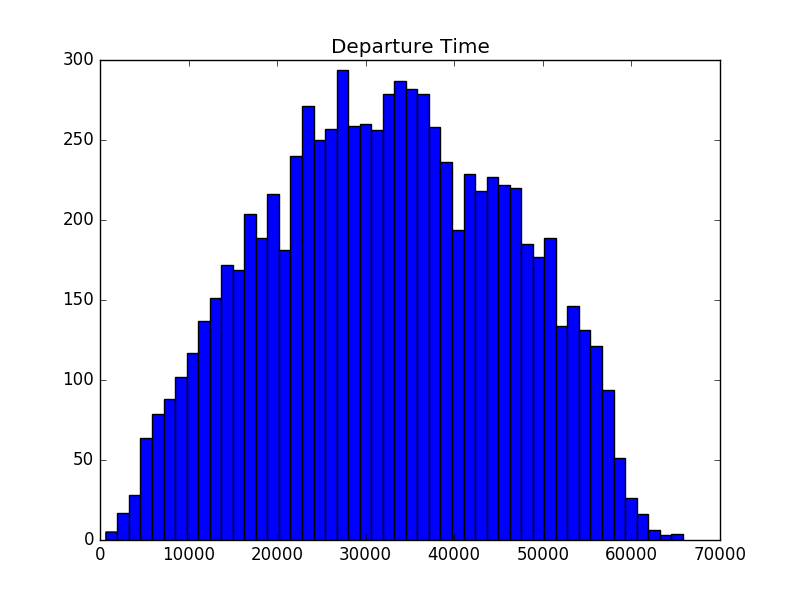
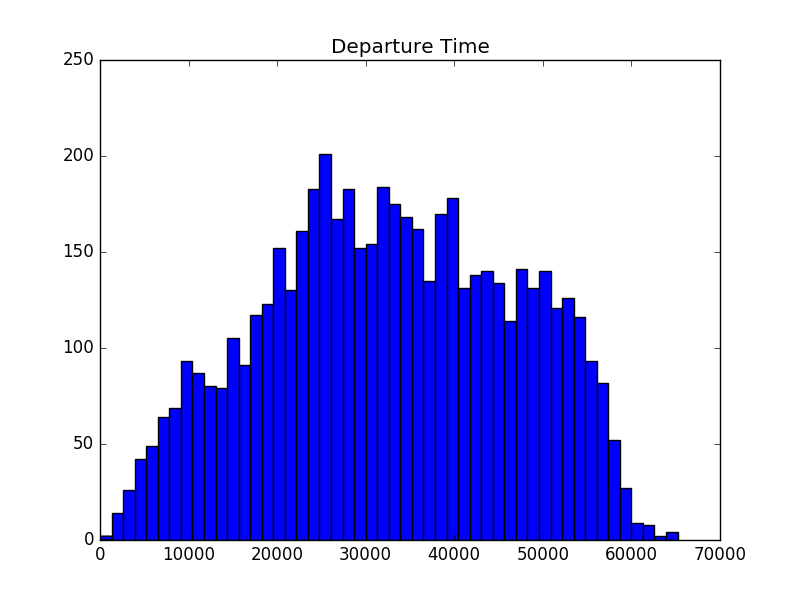
everything working

diff --git a/MMnnPSQ.py b/MMnnPSQ.py
@@ -114,6 +114,7 @@ class SimulationModel():
         day_of_week = 'Tue'
         dt = pd.read_csv("overallshift.csv")
         schedule = dt.query('start <= %s < end' % t0)[day_of_week].values[0]
+        shift_changes = deque([3600, 7200, 18000, 21600, 25200, 32400, 36000, 39600, 50400, 54000, 57600])
         shift = []
         #Create the roster schedules
         working_roster = Shift()
@@ -148,7 +149,7 @@ class SimulationModel():
         tmo_offline = 0
         while t < max_sim_time:
             
-            if t < 32400 and self.shift_change(t) == True:
+            if t < 32400 and self.shift_change(t, shift_changes) is True:
                 tmo_first_shift = working_roster.TMO.query('start <= %s < end' % t)[day_of_week].values[0]
                 macomp_first_shift = working_roster.MACOMP.query('start <= %s < end' % t)[day_of_week].values[0]
                 maenq_first_shift = working_roster.MAENQ.query('start <= %s < end' % t)[day_of_week].values[0]
@@ -180,7 +181,7 @@ class SimulationModel():
                     s_id += 1
                     shift.append(Servers(self.service_rate, s_id, concurency_limit, worker_type = 'tvsport'))
 
-            elif t >= 32400 and self.shift_change(t) == True:
+            elif t >= 32400 and self.shift_change(t, shift_changes) is True:
                 tmo_delta = working_roster.TMO.query('start <= %s < end' % t)[day_of_week].values[0]
                 macomp_delta = working_roster.MACOMP.query('start <= %s < end' % t)[day_of_week].values[0]
                 maenq_delta = working_roster.MAENQ.query('start <= %s < end' % t)[day_of_week].values[0]
@@ -190,51 +191,48 @@ class SimulationModel():
 
                 tmo = [i for i in shift if i.worker_type == 'tmo' if i.active is True]
                 count = 0
-                while count < tmo_delta:
-                    i.active = False
+                while count < math.fabs(tmo_delta):
+                    tmo[count].active = False
                     count += 1
 
-                macomp = [i for i in shift if i.worker_type == 'tmo' if i.active is True]
+                macomp = [i for i in shift if i.worker_type == 'macomp' if i.active is True]
                 count = 0
-                while count < macomp_delta:
-                    i.active = False
+                while count < math.fabs(macomp_delta):
+                    macomp[count].active = False
                     count += 1
 
-                maenq = [i for i in shift if i.worker_type == 'tmo' if i.active is True]
+                maenq = [i for i in shift if i.worker_type == 'maenq' if i.active is True]
                 count = 0
-                while count < maenq_delta:
-                    i.active = False
+                while count < math.fabs(maenq_delta):
+                    maenq[count].active = False
                     count += 1
 
-                mobile = [i for i in shift if i.worker_type == 'tmo' if i.active is True]
+                mobile = [i for i in shift if i.worker_type == 'mob' if i.active is True]
                 count = 0
-                while count < mobile_delta:
-                    i.active = False
+                while count < math.fabs(mobile_delta):
+                    mobile[count].active = False
                     count += 1
 
-                repair = [i for i in shift if i.worker_type == 'tmo' if i.active is True]
+                repair = [i for i in shift if i.worker_type == 'rep' if i.active is True]
                 count = 0
-                while count < repair_delta:
-                    i.active = False
+                while count < math.fabs(repair_delta):
+                    repair[count].active = False
                     count += 1
 
-                tvsport = [i for i in shift if i.worker_type == 'tmo' if i.active is True]
+                tvsport = [i for i in shift if i.worker_type == 'tvsport' if i.active is True]
                 count = 0
-                while count < tvsport_delta:
-                    i.active = False
+                while count < math.fabs(tvsport_delta):
+                    tvsport[count].active = False
                     count += 1
             
             # Generate the problems here
             p = [0., 0.354, 0.654, 0.797, 0.897, 0.976, 1.]
 
-            if 50400 < t < 54000:
-                r = rnd.uniform(0, 0.976)
-            elif t < 7200 or t > 54000:
+            if t < 7200 or t > 50400:
                 r = rnd.uniform(0, 0.897)
 
-
-            l = ['rep','maenq','tvsport','mob','tmo','macomp']
-            w_type = l[self.generate_random_sample_index(r,p)]
+            l = ['rep', 'maenq', 'tvsport', 'mob', 'tmo', 'macomp']
+            w_type = l[self.generate_random_sample_index(r, p)]
             
             applicable_shift = [agent for agent in shift if agent.active is True if agent.worker_type == w_type]
             applicable_shift.sort(key=lambda x: (x.min_next_service, -x.concurrency))
@@ -433,8 +431,8 @@ class SimulationModel():
         plt.savefig("staff_idle_hours.png")
         return n, x
 
-    def shift_change(self, t):
-        new_shift_times = deque([3600,7200,18000,21600,25200,32400,36000,39600,50400,54000])
+    def shift_change(self, t, times):
+        new_shift_times = times
         if t > new_shift_times[0]:
             new_shift_times.popleft()
             return True

diff --git a/scratch.py b/scratch.py
@@ -104,12 +104,12 @@ print(df1)
 #single sim results
 import pandas as pd
 import MMnPSQ
-sim = MMnPSQ.SimulationModel(25,180)
+sim = MMnPSQ.SimulationModel(20,180)
 shift, hist = sim.MMS1PS_simulation_loop_singlesim(57600,2)
 
 # Multi server multi queue model
 import MMnnPSQ
-sim = MMnnPSQ.SimulationModel(30,180)
+sim = MMnnPSQ.SimulationModel(20,180)
 shift, hist = sim.MMSNPS_simulation_loop_singlesim(57600, 2)
 print('finished')
 
